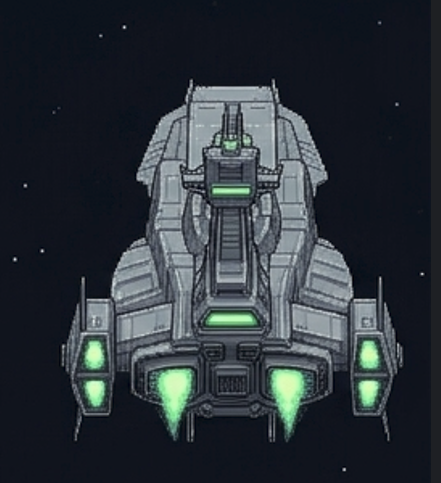
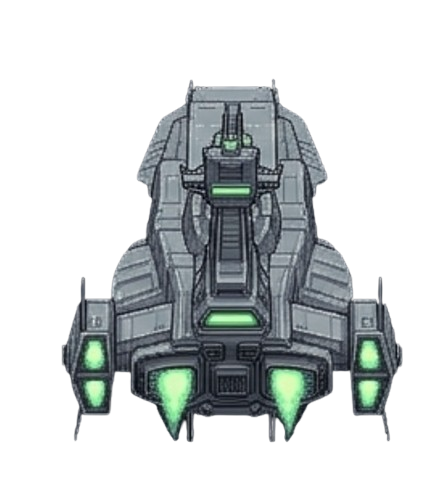
fix: selection highlight is a rounded rect, hugs content
The 140×100 ellipse felt awkwardly wide because the content
(54px planet sprite + ~16px name + ~12px item label) is roughly
square — an aspect-stretched ellipse left empty horizontal padding
either side.

Switched to strokeRoundedRect at (px-55, py-30, 110, 95, 14): top-
left near the planet's top edge, bottom-right just below the item
label, with 14px corner radius. Wraps the full info card cleanly.

diff --git a/src/game/scenes/Navigation.ts b/src/game/scenes/Navigation.ts
@@ -148,13 +148,13 @@ export class Navigation extends Scene {
                 orbitRing.lineStyle(1, color, 0.15)
                 orbitRing.strokeCircle(px, py, 34)
 
-                // Selection ring — bright cyan ellipse wrapping planet + name + item label
-                // Vertical extent: from planet top (py - 27) down past the item label (py + 53),
-                // giving roughly 100px tall centred at py + 13. Horizontal width covers the
-                // longest item label like "lush · 5/8 items".
+                // Selection ring — bright cyan rounded rectangle wrapping planet + name +
+                // item label. The previous ellipse (140×100) was too wide for the
+                // roughly-square content; a rounded rect hugs it tightly.
+                // Spans py-30 (top of planet + padding) to py+65 (below item label).
                 const selectionRing = this.add.graphics()
                 selectionRing.lineStyle(2, 0x6ee0ff, 0.9)
-                selectionRing.strokeEllipse(px, py + 13, 140, 100)
+                selectionRing.strokeRoundedRect(px - 55, py - 30, 110, 95, 14)
                 selectionRing.setVisible(false)
 
                 // Planet name